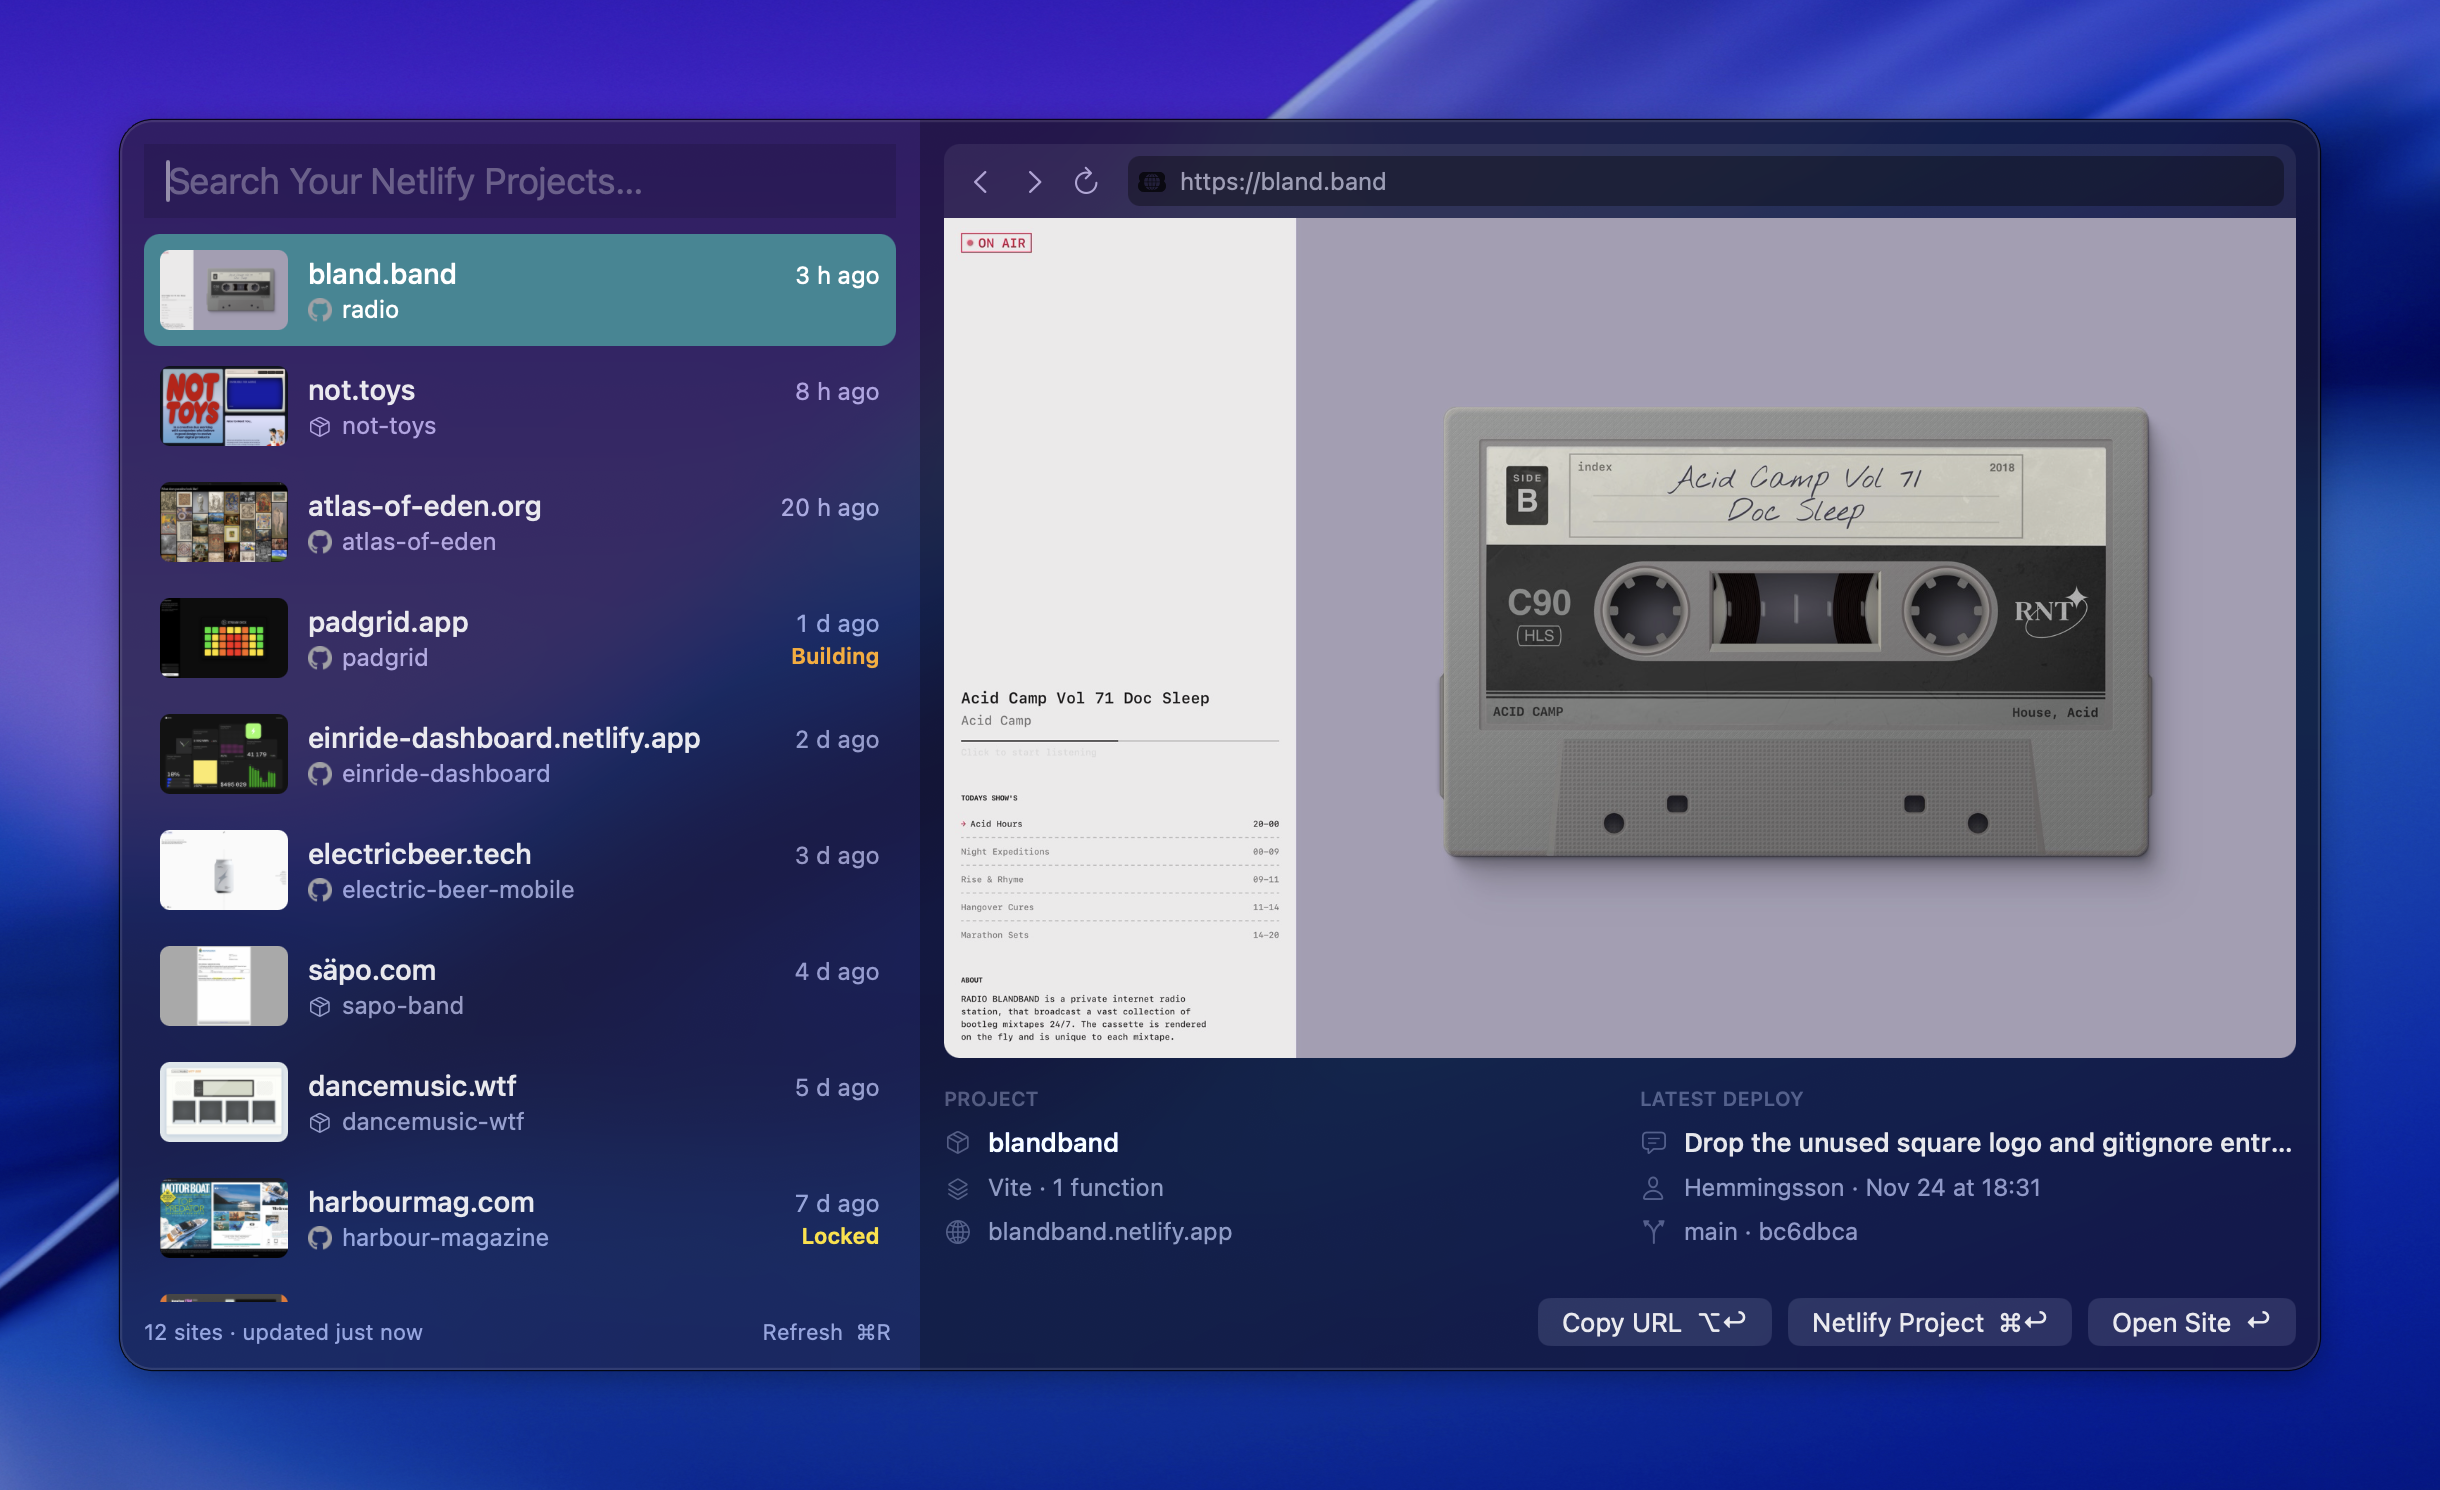
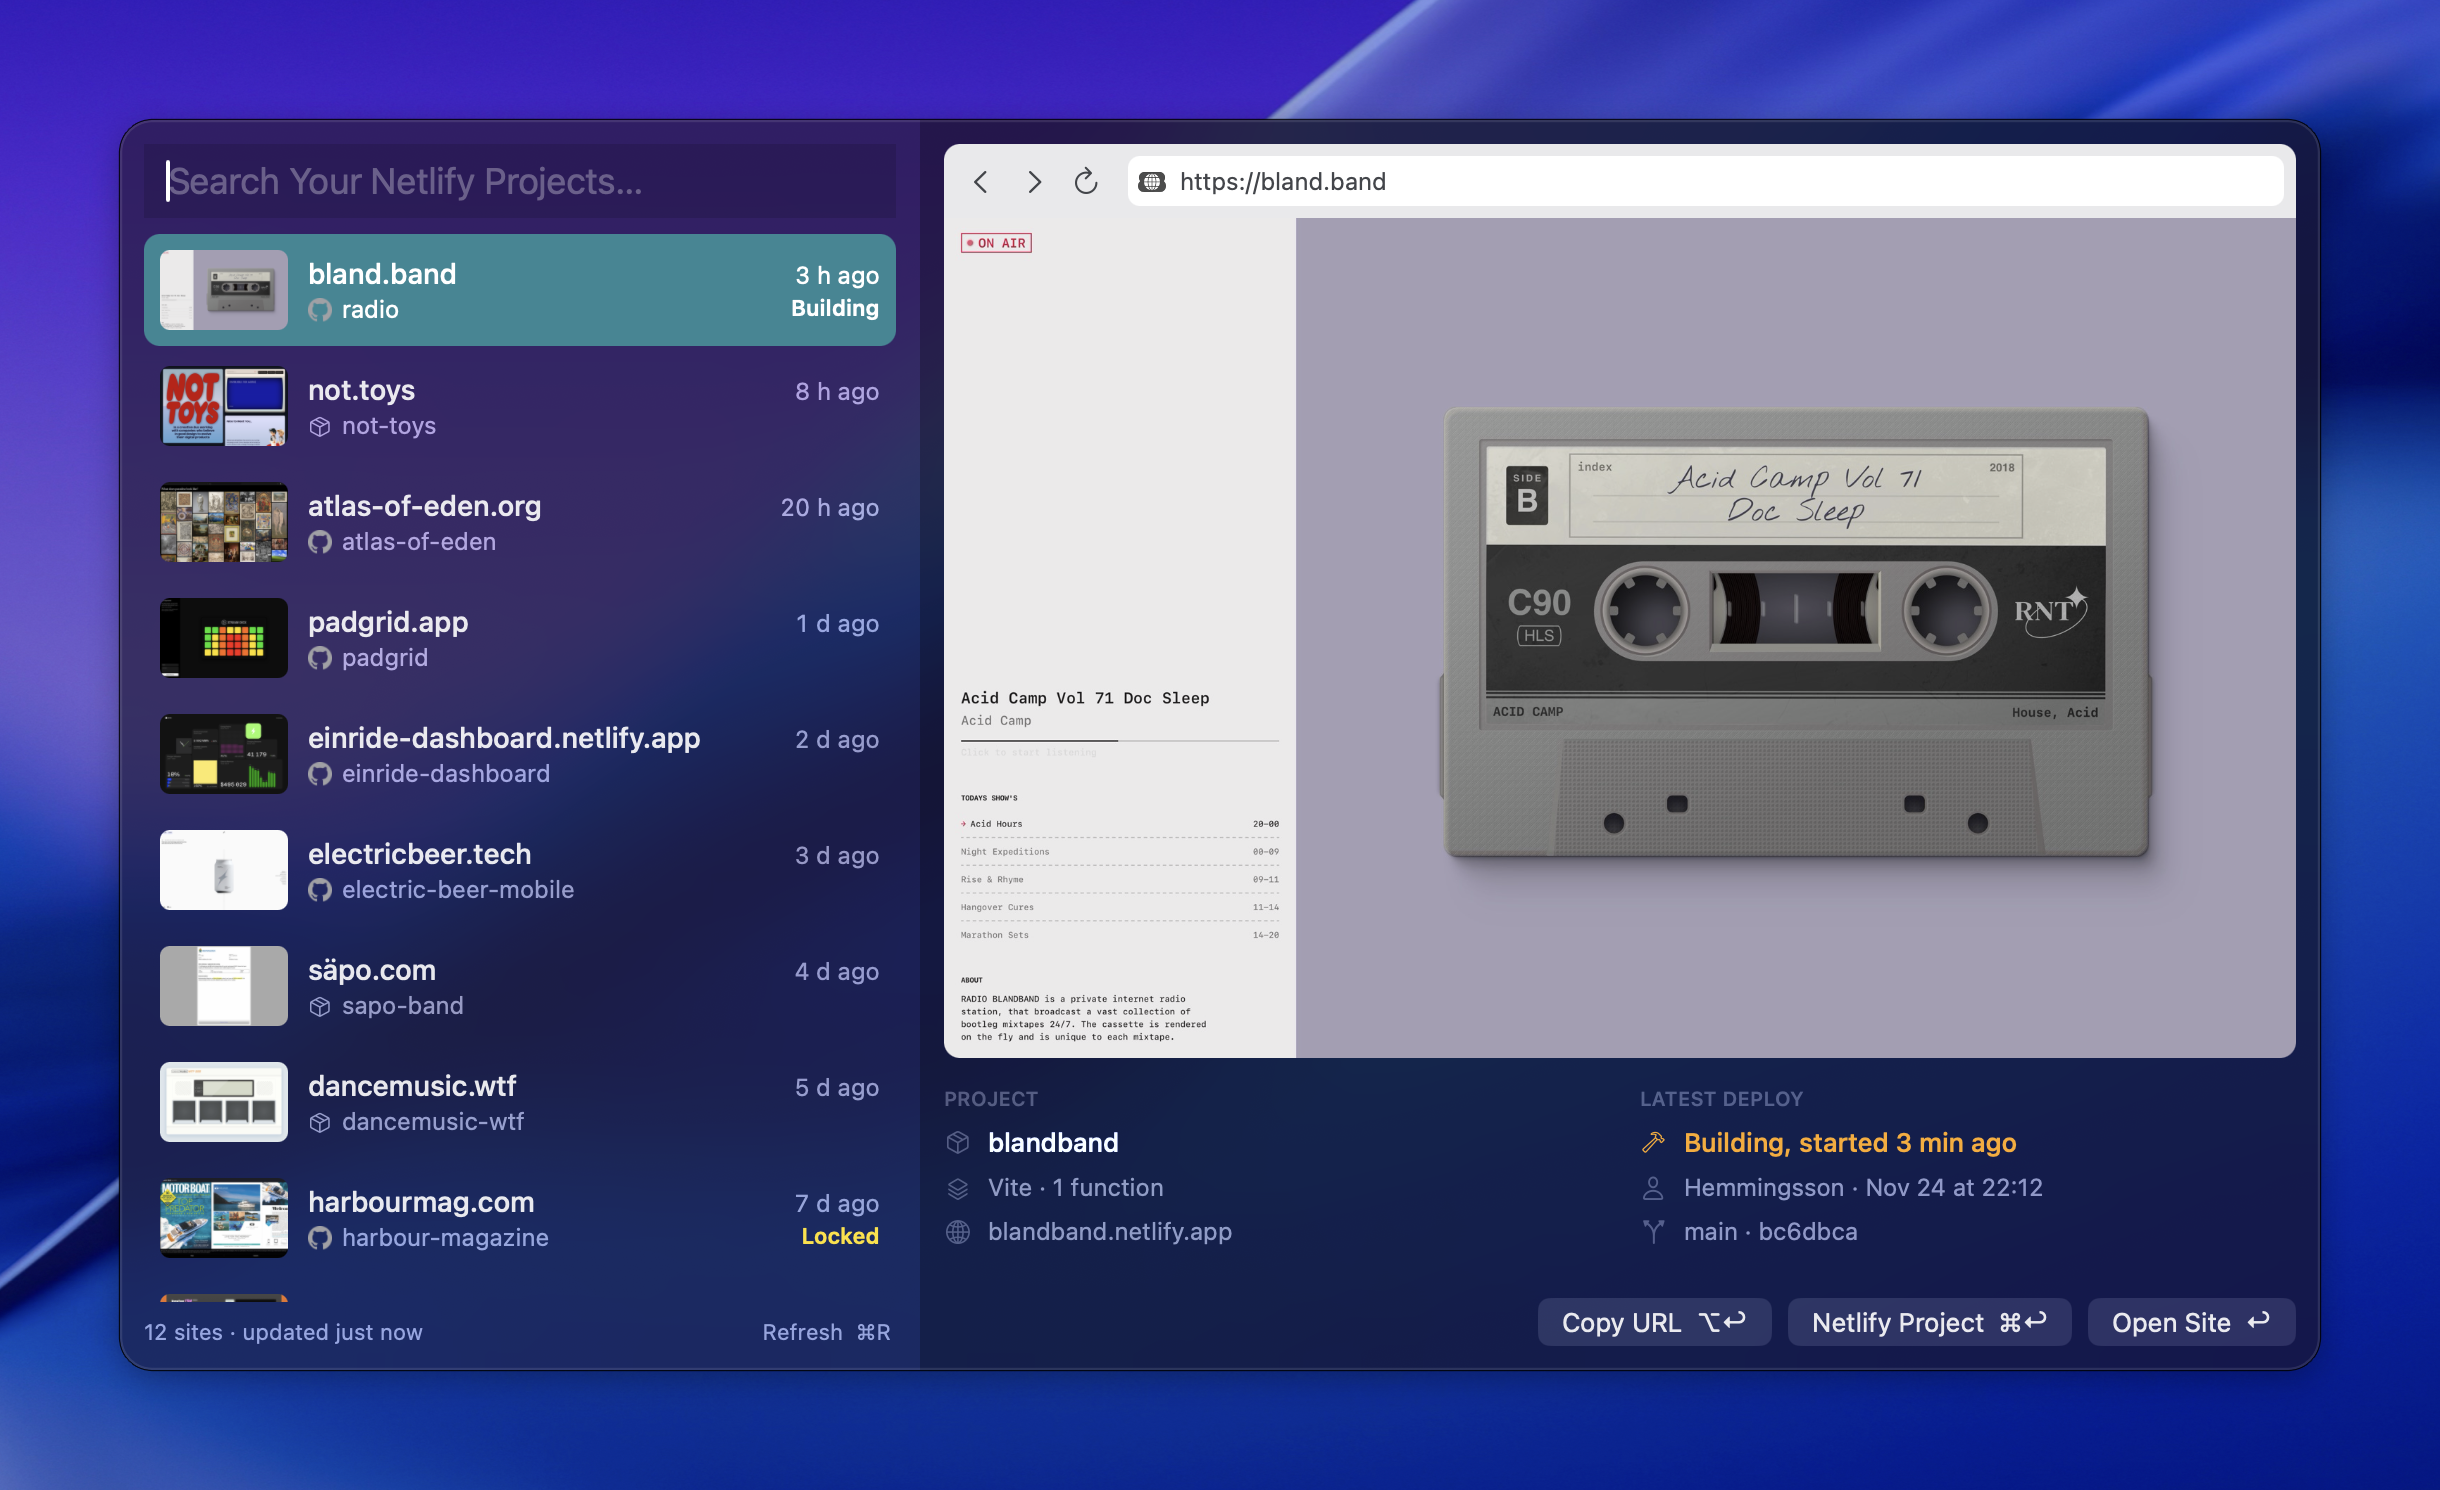
Polish browser chrome and complete repository checks

diff --git a/Sources/demo/DemoSite.swift b/Sources/demo/DemoSite.swift
@@ -4,19 +4,19 @@ import NetlifyCore
 /// One row of the demo account.
 enum DemoSite {
     /// A real site from `demo/real/<name>.json`, published `hoursAgo` hours ago; `customDomain` replaces its own.
-    case real(name: String, hoursAgo: Double, customDomain: String? = nil)
+    case real(name: String, hoursAgo: Double, customDomain: String? = nil, buildingHoursAgo: Double? = nil)
     /// A made-up site: every name, domain, repo, commit and deploy state is invented.
     case invented(InventedSite)
 
     /// The demo rows, newest first: README screenshots show them in this order with the first one selected.
     static let catalogue: [DemoSite] = [
-        .real(name: "blandband", hoursAgo: 3),
+        .real(name: "blandband", hoursAgo: 3, buildingHoursAgo: 0.05),
         .real(name: "nottoys", hoursAgo: 8),
         .invented(InventedSite(picture: "collage", domain: "atlas-of-eden.org", repo: "atlas-of-eden", hoursAgo: 20,
                                commit: "Add forty new paintings to the gallery", committer: "Ines Holm")),
         .invented(InventedSite(picture: "padgrid", domain: "padgrid.app", repo: "padgrid", hoursAgo: 30,
                                commit: "Tune the colour ramp for velocity", committer: "Jonas Berg", framework: "svelte-kit",
-                               functions: 1, newest: .building(hoursAgo: 0.05))),
+                               functions: 1)),
         .invented(InventedSite(picture: "dashboard", domain: "einride-dashboard.netlify.app", repo: "einride-dashboard", hoursAgo: 52,
                                commit: "Show charging sessions per week", committer: "Mira Lund", framework: "next", functions: 2)),
         .real(name: "electricbeer", hoursAgo: 75, customDomain: "electricbeer.tech"),
@@ -28,7 +28,7 @@ enum DemoSite {
                                commit: "Four pads, one loop", committer: "Ines Holm", framework: "svelte-kit")),
         .invented(InventedSite(picture: "switches", domain: "switchboard.tools", repo: "switchboard", hoursAgo: 300,
                                commit: "New gear and drive icons", committer: "Jonas Berg", framework: "svelte-kit", functions: 1,
-                               newest: .failed(hoursAgo: 20, message: "Build script returned non-zero exit code: 2"))),
+                               newest: .init(hoursAgo: 20, message: "Build script returned non-zero exit code: 2"))),
         .invented(InventedSite(picture: "bluescreen", domain: "bluescreen.club", repo: "bluescreen", hoursAgo: 700,
                                commit: "A corner of the web, in blue", committer: "Jonas Berg")),
     ]
@@ -36,7 +36,7 @@ enum DemoSite {
     /// The base name of the files in `demo/pictures` and `demo/favicons`.
     var picture: String {
         switch self {
-        case .real(let name, _, _): name
+        case .real(let name, _, _, _): name
         case .invented(let site): site.picture
         }
     }
@@ -44,10 +44,19 @@ enum DemoSite {
     /// The site as the cache stores it; `index` keeps invented ids unique.
     func site(index: Int, sources: URL, now: Date) throws -> Site {
         switch self {
-        case .real(let name, let hoursAgo, let customDomain):
+        case .real(let name, let hoursAgo, let customDomain, let buildingHoursAgo):
             let file = sources.appending(path: "real/\(name).json")
             let record = try RealSiteRecord.decoder.decode(RealSiteRecord.self, from: Data(contentsOf: file))
-            return record.site(publishedAt: now.addingTimeInterval(-hoursAgo * 3600), customDomain: customDomain)
+            var site = record.site(publishedAt: now.addingTimeInterval(-hoursAgo * 3600), customDomain: customDomain)
+            if let buildingHoursAgo, var deploy = site.publishedDeploy {
+                deploy.id = "demo-building-" + deploy.id
+                deploy.state = "building"
+                deploy.createdAt = now.addingTimeInterval(-buildingHoursAgo * 3600)
+                deploy.publishedAt = nil
+                site.newestDeploy = deploy
+                site.updatedAt = deploy.createdAt
+            }
+            return site
         case .invented(let site):
             return site.site(index: index, now: now)
         }

diff --git a/Sources/demo/InventedSite.swift b/Sources/demo/InventedSite.swift
@@ -3,16 +3,10 @@ import NetlifyCore
 
 /// A made-up demo site, described by what shows in its row and detail pane.
 struct InventedSite {
-    /// The newest production deploy, when it isn't the published one.
-    enum NewestDeploy {
-        case building(hoursAgo: Double)
-        case failed(hoursAgo: Double, message: String)
-
-        var hoursAgo: Double {
-            switch self {
-            case .building(let hours), .failed(let hours, _): hours
-            }
-        }
+    /// An unpublished failed deploy, shown alongside the live site.
+    struct FailedDeploy {
+        var hoursAgo: Double
+        var message: String
     }
 
     var picture: String
@@ -25,7 +19,7 @@ struct InventedSite {
     var committer = ""
     var framework = ""
     var functions = 0
-    var newest: NewestDeploy?
+    var newest: FailedDeploy?
     var isLocked = false
 
     func site(index: Int, now: Date) -> Site {
@@ -71,18 +65,13 @@ struct InventedSite {
         String(format: "%07x", (index + 7) * 2_654_435_761 & 0xFFF_FFFF)
     }
 
-    private func newestDeploy(_ newest: NewestDeploy, of published: Deploy, createdAt: Date) -> Deploy {
+    private func newestDeploy(_ newest: FailedDeploy, of published: Deploy, createdAt: Date) -> Deploy {
         var deploy = published
         deploy.id = "newer"
         deploy.createdAt = createdAt
         deploy.publishedAt = nil
-        switch newest {
-        case .building:
-            deploy.state = "building"
-        case .failed(_, let message):
-            deploy.state = "error"
-            deploy.errorMessage = message
-        }
+        deploy.state = "error"
+        deploy.errorMessage = newest.message
         return deploy
     }
 }

diff --git a/Tests/NetlifyCLITests/DemoAccountBuilderTests.swift b/Tests/NetlifyCLITests/DemoAccountBuilderTests.swift
@@ -51,13 +51,19 @@ struct DemoAccountBuilderTests {
         #expect(pictures.adopted.first?.favicon?.lastPathComponent == "blandband.svg")
     }
 
-    @Test func inventedSitesShowTheirExceptions() throws {
+    @Test func demoSitesShowTheirExceptions() throws {
         let folder = scratchFolder()
         defer { try? FileManager.default.removeItem(at: folder.deletingLastPathComponent()) }
         let sites = try builder(RecordingPictures()).build(into: folder)
 
+        let selected = try #require(sites.first)
+        #expect(selected.name == "blandband")
+        #expect(selected.newestDeploy?.state == "building")
+        #expect(selected.newestDeploy?.id != selected.publishedDeploy?.id)
+        #expect(selected.publishedDeploy?.state == "ready")
+        #expect(selected.newestDeploy?.publishedAt == nil)
         let padgrid = try #require(sites.first { $0.name == "padgrid" })
-        #expect(padgrid.newestDeploy?.state == "building")
+        #expect(padgrid.newestDeploy == nil)
         let switchboard = try #require(sites.first { $0.name == "switchboard" })
         #expect(switchboard.newestDeploy?.state == "error")
         #expect(switchboard.newestDeploy?.errorMessage == "Build script returned non-zero exit code: 2")

diff --git a/scripts/screenshot_background.swift b/scripts/screenshot_background.swift
@@ -15,7 +15,7 @@ app.setActivationPolicy(.prohibited)
 let desktopHeight = NSScreen.screens[0].frame.height
 let cocoaBounds = NSRect(x: bounds.minX, y: desktopHeight - bounds.maxY, width: bounds.width, height: bounds.height)
 let screen = NSScreen.screens.first { $0.frame.intersects(cocoaBounds) } ?? NSScreen.screens[0]
-let backdrop = NSWindow(contentRect: screen.frame, styleMask: .borderless, backing: .buffered, defer: false)
+let backdrop = NSPanel(contentRect: screen.frame, styleMask: [.borderless, .nonactivatingPanel], backing: .buffered, defer: false)
 backdrop.level = NSWindow.Level(rawValue: (info[kCGWindowLayer as String] as? Int ?? 0) - 1)
 backdrop.ignoresMouseEvents = true
 backdrop.hasShadow = false

diff --git a/docs/releasing.md b/docs/releasing.md
@@ -60,6 +60,8 @@ The Alfred Gallery needs a separate submission. See the [sharing guide](https://
 
 ## Development
 
+GitHub Actions runs the Swift tests, Alfred UI checks, shell syntax checks and local documentation link checks on pushes and pull requests.
+
 ```sh
 scripts/build.sh --debug --install
 ```
